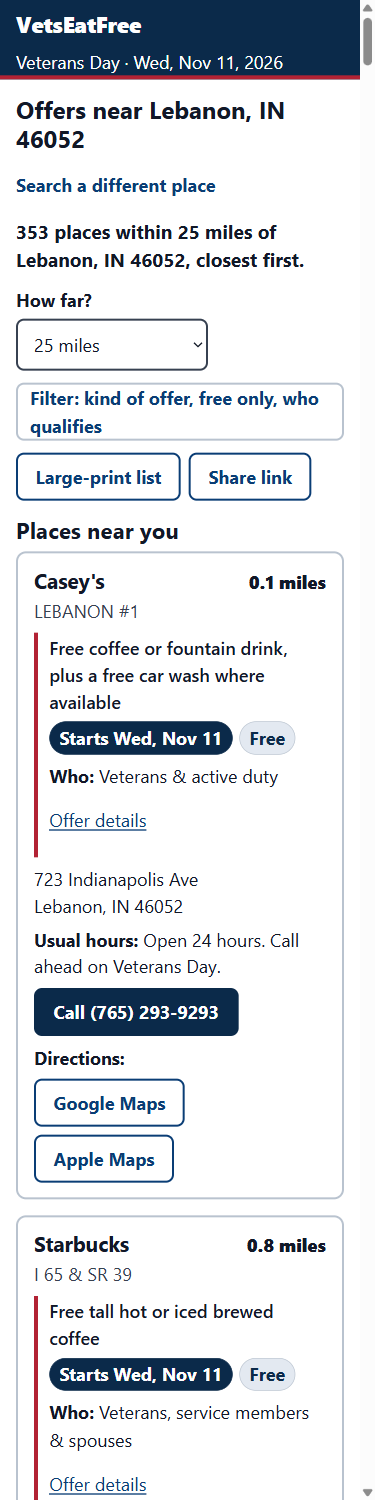
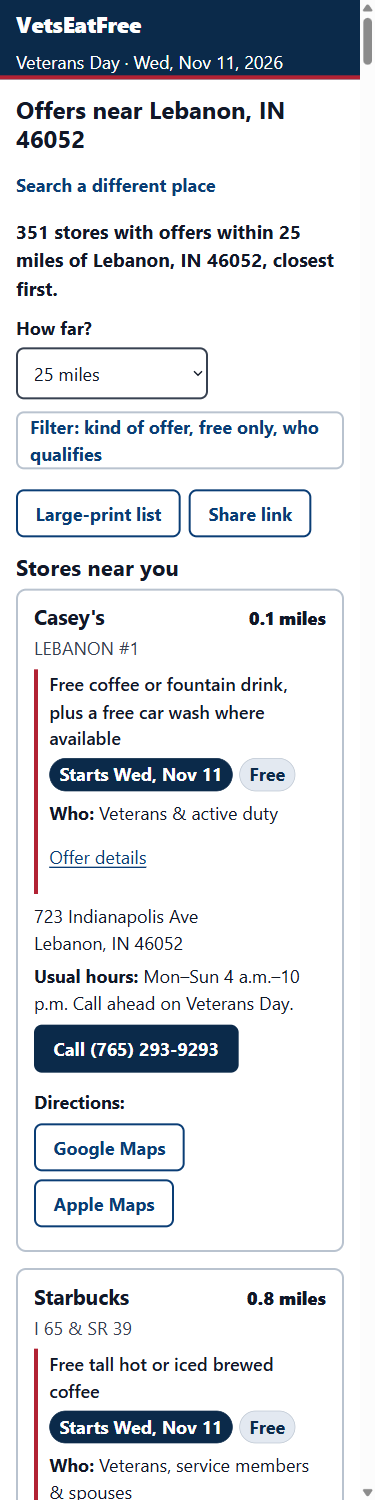
Evaluator round 5 fixes: store feature only (no pumps/pharmacy data), workplace and postal sites

diff --git a/pipeline/locations.py b/pipeline/locations.py
@@ -55,6 +55,10 @@ NOT_PUBLIC = re.compile(
 DEDUP_MI = 0.06            # ~100 m: same brand closer than this = one store
 
 
+def norm_street(a: str | None) -> str:
+    return re.sub(r"[^a-z0-9]", "", (a or "").lower())
+
+
 def miles(lat1, lng1, lat2, lng2) -> float:
     r = 3958.8
     p1, p2 = math.radians(lat1), math.radians(lat2)
@@ -146,7 +150,10 @@ STREET_NOT_PUBLIC = re.compile(
     # Veterans Day federal holiday (State Dept, USDA, Library of Congress...)
     r"(dept|department) of (state|justice|agriculture|defense|energy|labor|commerce|education|"
     r"transportation|the treasury|treasury|the interior|interior|homeland security|health|"
-    r"veterans affairs|housing)\b|,\s*usda\s*$|library of congress|(house|senate) office building",
+    r"veterans affairs|housing)\b|,\s*usda\s*$|library of congress|(house|senate) office building|"
+    # postal plants and other industrial sites
+    r"\busps\b|postal (service|facility)|sorting (facility|center)|processing (center|plant|facility)|"
+    r"distribution cent(er|re)",
     re.I,
 )
 
@@ -185,7 +192,46 @@ def near_test_point(f: dict, pts: list[tuple[float, float]]) -> bool:
     return any(miles(lat, lng, a, b) <= TEST_CLUSTER_MI for a, b in pts)
 
 
+CATEGORY_KEYS = ("shop", "amenity", "healthcare", "office")
+WEEK = ["Mo", "Tu", "We", "Th", "Fr", "Sa", "Su"]
+
+
+def open_days_and_last_close(hours: str) -> tuple[set, int | None]:
+    """Days a store opens and its latest closing minute, from an OSM-style
+    string like 'Mo-Th 07:30-15:15; Fr 07:30-13:15'. (set(), None) if unclear."""
+    days: set = set()
+    ends: list[int] = []
+    for part in (hours or "").split(";"):
+        part = part.strip()
+        if not part or re.search(r"off|closed", part):
+            continue
+        m = re.match(r"((?:Mo|Tu|We|Th|Fr|Sa|Su)(?:[-,](?:Mo|Tu|We|Th|Fr|Sa|Su))*)\s+(.*)$", part)
+        if not m:
+            return set(), None
+        for seg in m.group(1).split(","):
+            if "-" in seg:
+                a, b = seg.split("-")
+                i, j = WEEK.index(a), WEEK.index(b)
+                days.update(WEEK[i:j + 1] if i <= j else WEEK[i:] + WEEK[:j + 1])
+            else:
+                days.add(seg)
+        ends += [int(h) * 60 + int(mi) for h, mi in re.findall(r"-(\d{2}):(\d{2})", m.group(2))]
+    return days, (max(ends) if ends else None)
+
+
+def workplace_hours(p: dict) -> bool:
+    """Weekdays only and closed by 4 p.m. (or weekdays only with no public
+    phone): a cafe inside an office campus, state office or plant, not a store
+    a visitor walks into (Verizon HQ, Capital One campus, NJ state offices)."""
+    days, close = open_days_and_last_close(str(p.get("opening_hours") or ""))
+    if len(days) < 3 or {"Sa", "Su"} & days or close is None:
+        return False
+    return close <= 16 * 60 or not p.get("phone")
+
+
 def not_public(p: dict, live_requires: tuple = ()) -> bool:
+    if workplace_hours(p):
+        return True
     if p.get("office"):                       # office=company: a head office, not a store
         return True
     start = str(p.get("start_date") or "").strip()
@@ -252,6 +298,7 @@ class BrandStats:
     no_place: int = 0
     geocoded: int = 0
     not_public: int = 0
+    not_store: int = 0
     placeholder_phone: int = 0
     bad_coords: int = 0
     state_fixed: int = 0
@@ -288,6 +335,7 @@ def build(brands: dict, zips: dict[str, list], offline: bool, areas: dict[str, f
             feats = atp.load_features(atp.spider_file(sp, pick[0], offline))
             labs = test_points(feats, qids)
             live = tuple(b.get("live_listing_requires") or ())
+            cats = set(b.get("store_categories") or ())
             for f in feats:
                 st.features += 1
                 p = f.get("properties") or {}
@@ -296,6 +344,9 @@ def build(brands: dict, zips: dict[str, list], offline: bool, areas: dict[str, f
                     continue
                 if not_public(p, live) or near_test_point(f, labs):
                     st.not_public += 1
+                    continue
+                if cats and not any(f"{k}={p.get(k)}" in cats for k in CATEGORY_KEYS if p.get(k)):
+                    st.not_store += 1             # fuel pumps, pharmacy, liquor store...
                     continue
                 raw = re.sub(r"\D", "", str(p.get("phone") or "").split(";")[0])[-10:]
                 if len(raw) == 10 and is_placeholder_phone(raw):
@@ -441,9 +492,12 @@ def build(brands: dict, zips: dict[str, list], offline: bool, areas: dict[str, f
                 for other in grid.get((rec["b"], key[1] + di, key[2] + dj), ()):
                     if miles(rec["la"], rec["lo"], other["la"], other["lo"]) < DEDUP_MI:
                         dup = True
-                        for k in ("p", "h", "n", "z", "a"):
-                            if not other.get(k) and rec.get(k):
-                                other[k] = rec[k]
+                        # Fill gaps only from a copy of the same store (same
+                        # street), never from a neighbouring feature or store.
+                        if norm_street(other.get("a")) == norm_street(rec.get("a")):
+                            for k in ("p", "h", "n", "z"):
+                                if not other.get(k) and rec.get(k):
+                                    other[k] = rec[k]
                         break
                 if dup:
                     break

diff --git a/tests/test_pipeline.py b/tests/test_pipeline.py
@@ -320,3 +320,24 @@ def test_tcby_and_twin_peaks_have_full_addresses(records):
     for r in tcby:
         if r.get("c") == "Harrison" and r["s"] == "AR":
             assert miles(r["la"], r["lo"], 36.23, -93.11) < 15
+
+
+# ---- evaluator round 5 -------------------------------------------------------
+def test_workplace_hours_rule():
+    from pipeline.locations import workplace_hours as w
+    assert w({"opening_hours": "Tu-Th 07:30-14:45", "phone": "8042841566"})      # Capital One campus
+    assert w({"opening_hours": "Mo-Fr 07:30-14:45", "phone": "7326084423"})      # Verizon HQ
+    assert w({"opening_hours": "Mo-Fr 07:00-16:30"})                              # Sanofi, no phone
+    assert not w({"opening_hours": "Mo 11:00-22:00", "phone": "1"})               # source glitch, not weekday-only
+    assert not w({"opening_hours": "Mo-Fr 09:00-17:00", "phone": "1"})            # Walgreens pharmacy hours
+    assert not w({"opening_hours": "Mo-Su 05:00-21:00", "phone": "1"})
+
+
+def test_store_feature_not_pumps_or_pharmacy(records):
+    casey = [r for r in records if r["b"] == "caseys" and r.get("a") == "723 Indianapolis Ave"]
+    assert casey and casey[0]["h"] == "Mo-Su 04:00-22:00"          # the store, not the 24/7 pumps
+    names = {(r["b"], r.get("n") or "") for r in records}
+    assert not any(b == "publix" and "Moffitt" in n for b, n in names)
+    assert sum(1 for r in records if r["b"] == "hy-vee" and r.get("c") == "Lamoni") == 1
+    from pipeline.locations import not_public
+    assert not_public({"addr:street_address": "80 County Rd, USPS Sorting Facility"})

diff --git a/tools/make_brands.py b/tools/make_brands.py
@@ -177,6 +177,13 @@ def main() -> None:
     brands["texas-roadhouse"]["live_listing_note"] = (
         "Open restaurants all have opening_hours and website in the source; listings without them "
         "include 'Open 12/7' / 'Opens December 2026' restaurants and internal entries.")
+    # Some spiders list several features per site (store, fuel pumps,
+    # pharmacy, liquor store). Only the store itself carries the offer, and its
+    # own hours and phone must be shown. Pharmacy-only sites (incl. hospital
+    # pharmacies) don't sell groceries or breakfast, so they are left out.
+    brands["caseys"]["store_categories"] = ["shop=convenience"]
+    brands["publix"]["store_categories"] = ["shop=supermarket"]
+    brands["hy-vee"]["store_categories"] = ["shop=supermarket"]
     covered = {o for b in brands.values() for o in b["offers"]} | set(NO_STORE)
     need = {s for s, o in seed.items() if o["scope"] != "single_location"}
     assert need == covered, (need - covered, covered - need)

diff --git a/pipeline/reports.py b/pipeline/reports.py
@@ -52,6 +52,8 @@ def coverage(brands_doc: dict, stats: dict, choices: dict, records: list[dict], 
         f"wrong brand Q-id {sum(s.wrong_brand for s in stats.values())}, "
         f"marked by the source as test/lab, closed, coming soon or staff-only "
         f"{sum(s.not_public for s in stats.values())}, "
+        f"not the store itself (fuel pumps, pharmacy, liquor store of a multi-feature chain) "
+        f"{sum(s.not_store for s in stats.values())}, "
         f"outside the U.S. {sum(s.not_us for s in stats.values())}, "
         f"no coordinates and no usable address {sum(s.no_place for s in stats.values())}, "
         f"coordinates far from their ZIP or outside the U.S. {sum(s.bad_coords for s in stats.values())}, "

diff --git a/data/coverage.md b/data/coverage.md
@@ -9,25 +9,25 @@ Generated by `python -m pipeline.build` on 2026-11-07. Locations come only from 
 | 7 Brew | 7_brew_us (2026-10-24) | 561 | 462 | 400 |  |
 | Applebee's | applebees (2026-10-24) | 1456 | 1450 | 1500 |  |
 | Benihana | benihana (2026-10-24) | 84 | 80 | 75 |  |
-| Biggby Coffee | biggby_coffee_us (2026-10-24) | 499 | 496 | 300 |  |
+| Biggby Coffee | biggby_coffee_us (2026-10-24) | 499 | 495 | 300 |  |
 | BJ's Restaurant & Brewhouse | bj_restaurant_us (2026-10-24) | 219 | 218 | 215 |  |
 | Blaze Pizza | blaze_pizza (2026-10-24) | 227 | 219 | 300 |  |
 | Bob Evans | bob_evans_us (2026-10-24) | 408 | 408 | 430 |  |
 | Bonefish Grill | bonefish_grill (2026-10-24) | 156 | 156 | 170 |  |
 | BRAVO! Italian Kitchen | bravo_italian_us (2026-09-05) | 19 | 19 | 15 |  |
-| Bruegger's Bagels | brueggers (2026-10-24) | 155 | 155 | 200 |  |
+| Bruegger's Bagels | brueggers (2026-10-24) | 155 | 153 | 200 |  |
 | Buffalo Wild Wings | buffalo_wild_wings_us (2026-10-24) | 1440 | 1438 | 1200 |  |
 | California Pizza Kitchen | california_pizza_kitchen (2026-10-24) | 107 | 106 | 130 |  |
 | Carrabba's Italian Grill | carrabbas_italian_grill (2026-10-24) | 203 | 203 | 200 |  |
 | Casey's | caseys_general_store_us (2026-10-10) | 3750 | 1922 | 2900 |  |
-| Charleys Cheesesteaks | charleys_philly_steaks (2026-10-17) | 904 | 793 | 600 |  |
+| Charleys Cheesesteaks | charleys_philly_steaks (2026-10-17) | 904 | 788 | 600 |  |
 | Chili's | chilis (2026-10-24) | 1212 | 1204 | 1200 |  |
 | Chipotle | chipotle (2026-10-24) | 4316 | 4200 | 3600 |  |
 | Dave & Buster's | dave_and_busters (2026-10-24) | 187 | 184 | 230 |  |
 | Denny's | dennys_us (2026-10-24) | 1231 | 1230 | 1400 |  |
-| Dunkin' | dunkin_us (2026-10-24) | 10488 | 10389 | 9500 |  |
+| Dunkin' | dunkin_us (2026-10-24) | 10488 | 10347 | 9500 |  |
 | Eat'n Park | eatn_park_us (2026-10-10) | 55 | 55 | 50 |  |
-| Einstein Bros. Bagels | einstein_bros_us (2026-10-24) | 710 | 691 | 650 |  |
+| Einstein Bros. Bagels | einstein_bros_us (2026-10-24) | 710 | 648 | 650 |  |
 | Farmer Boys | farmer_boys (2026-10-24) | 107 | 107 | 100 |  |
 | Firehouse Subs | firehouse_subs (2026-10-24) | 1496 | 1272 | 1200 |  |
 | Fogo de Chão | fogo_de_chao (2026-10-24) | 61 | 44 | 60 |  |
@@ -38,7 +38,7 @@ Generated by `python -m pipeline.build` on 2026-11-07. Locations come only from 
 | Hard Rock Cafe | hard_rock (2026-10-24) | 237 | 30 | 30 |  |
 | Hooters | hooters (2026-10-24) | 215 | 149 | 250 |  |
 | Hopdoddy Burger Bar | hopdoddy_burger_bar_us (2026-10-24) | 50 | 50 | 40 |  |
-| Hy-Vee | hy_vee_us (2026-10-24) | 296 | 272 | 290 |  |
+| Hy-Vee | hy_vee_us (2026-10-24) | 296 | 250 | 290 |  |
 | IHOP | ihop (2026-10-24) | 1689 | 1682 | 1600 |  |
 | In-N-Out Burger | innout (2026-10-24) | 445 | 444 | 400 |  |
 | Joe's Crab Shack | joes_crab_shack_us (2026-10-24) | 13 | 13 | 15 |  |
@@ -54,8 +54,8 @@ Generated by `python -m pipeline.build` on 2026-11-07. Locations come only from 
 | Outback Steakhouse | outback_steakhouse (2026-10-24) | 647 | 647 | 690 |  |
 | Piada Italian Street Food | piada_us (2026-10-24) | 63 | 63 | 50 |  |
 | Pilot & Flying J | pilot_flying_j (2026-10-10) | 720 | 602 | 750 |  |
-| Playa Bowls | playa_bowls_us (2026-10-24) | 439 | 436 | 280 |  |
-| Publix | publix_us (2026-10-24) | 3252 | 1455 | 1400 |  |
+| Playa Bowls | playa_bowls_us (2026-10-24) | 439 | 435 | 280 |  |
+| Publix | publix_us (2026-10-24) | 3252 | 1451 | 1400 |  |
 | Red Lobster | red_lobster_us (2026-10-17) | 509 | 482 | 550 |  |
 | Red Robin | red_robin (2026-10-17) | 458 | 446 | 500 |  |
 | Rubio's Coastal Grill | rubios_us (2026-10-24) | 78 | 78 | 80 |  |
@@ -64,9 +64,9 @@ Generated by `python -m pipeline.build` on 2026-11-07. Locations come only from 
 | Sheetz | sheetz (2026-10-24) | 867 | 865 | 750 |  |
 | Shoney's | shoneys_us (2026-10-24) | 53 | 52 | 100 |  |
 | Sizzler | sizzler_us (2026-10-24) | 71 | 71 | 70 |  |
-| Smashburger | smashburger (2026-10-24) | 162 | 157 | 200 |  |
+| Smashburger | smashburger (2026-10-24) | 162 | 156 | 200 |  |
 | Sport Clips | sport_clips_us (2026-10-24) | 1762 | 1760 | 1800 |  |
-| Starbucks | starbucks_us (2026-10-24) | 13804 | 13617 | 16000 |  |
+| Starbucks | starbucks_us (2026-10-24) | 13804 | 13553 | 16000 |  |
 | TCBY | tcby (2026-10-24) | 129 | 115 | 200 |  |
 | Texas Roadhouse | texas_roadhouse (2026-10-24) | 857 | 702 | 650 |  |
 | TGI Fridays | tgi_fridays_us (2026-10-24) | 68 | 62 | 90 |  |
@@ -74,14 +74,14 @@ Generated by `python -m pipeline.build` on 2026-11-07. Locations come only from 
 | Tractor Supply | tractor_supply (2026-10-17) | 2479 | 2478 | 2250 |  |
 | Twin Peaks | twin_peaks (2026-10-24) | 117 | 110 | 110 |  |
 | WaBa Grill | waba_grill_us (2026-10-24) | 194 | 194 | 200 |  |
-| Walgreens | walgreens (2026-10-10) | 7986 | 7686 | 8000 |  |
+| Walgreens | walgreens (2026-10-10) | 7986 | 7685 | 8000 |  |
 | Wendy's | wendys (2026-10-10) | 16172 | 5860 | 6000 |  |
 | White Castle | white_castle (2026-10-24) | 336 | 336 | 340 |  |
 | Yard House | yard_house (2026-10-17) | 101 | 97 | 90 |  |
 
-Dropped along the way (all brands): wrong brand Q-id 449, marked by the source as test/lab, closed, coming soon or staff-only 295, outside the U.S. 1626, no coordinates and no usable address 135, coordinates far from their ZIP or outside the U.S. 102, duplicates 13693. Placed with the U.S. Census Geocoder: 772. Placeholder phone numbers removed (store kept, no phone shown): 39. State corrected to the ZIP's state: 162. ZIP hidden because it contradicts the store's own town: 61. Map point disagreed with the address and was replaced by the Census Geocoder's match: 8.
+Dropped along the way (all brands): wrong brand Q-id 449, marked by the source as test/lab, closed, coming soon or staff-only 462, not the store itself (fuel pumps, pharmacy, liquor store of a multi-feature chain) 3642, outside the U.S. 1626, no coordinates and no usable address 133, coordinates far from their ZIP or outside the U.S. 100, duplicates 10074. Placed with the U.S. Census Geocoder: 750. Placeholder phone numbers removed (store kept, no phone shown): 39. State corrected to the ZIP's state: 159. ZIP hidden because it contradicts the store's own town: 61. Map point disagreed with the address and was replaced by the Census Geocoder's match: 8.
 
-Total store locations: **80955**. Single places: **14**.
+Total store locations: **80769**. Single places: **14**.
 
 ## Offers with at least one location
 
@@ -93,16 +93,16 @@ Total store locations: **80955**. Single places: **14**.
 
 | ZIP | Place | Why | Locations within 25 mi | within 100 mi | Single places within 150 mi |
 |---|---|---|---:|---:|---:|
-| 46052 | Lebanon, IN | home pilot | 352 | 1330 | 0 |
-| 10001 | New York, NY | dense | 2810 | 6523 | 2 |
-| 78205 | San Antonio, TX | big military city | 482 | 1187 | 1 |
-| 20001 | Washington, DC | DC | 1191 | 3771 | 5 |
+| 46052 | Lebanon, IN | home pilot | 351 | 1327 | 0 |
+| 10001 | New York, NY | dense | 2803 | 6507 | 2 |
+| 78205 | San Antonio, TX | big military city | 480 | 1184 | 1 |
+| 20001 | Washington, DC | DC | 1185 | 3760 | 5 |
 | 59301 | Miles City, MT | rural, must auto-widen | 2 | 5 | 0 |
 | 87301 | Gallup, NM | rural | 11 | 40 | 0 |
 | 04401 | Bangor, ME | Northeast regional offers | 51 | 223 | 0 |
-| 82001 | Cheyenne, WY | small state | 37 | 931 | 0 |
+| 82001 | Cheyenne, WY | small state | 37 | 930 | 0 |
 | 99701 | Fairbanks, AK | Alaska | 12 | 12 | 0 |
-| 96813 | Honolulu, HI | Hawaii | 150 | 171 | 0 |
+| 96813 | Honolulu, HI | Hawaii | 149 | 170 | 0 |
 | 00901 | San Juan, PR | territory | 108 | 161 | 0 |
 | 96910 | Hagåtña, GU | territory with little data | 3 | 3 | 0 |
 | 00802 | St. Thomas, VI | territory with little data | 2 | 124 | 0 |

diff --git a/PROGRESS.md b/PROGRESS.md
@@ -352,3 +352,29 @@ Decisions:
   temp-closed / test-restaurant (Charleys x2, In-N-Out Camarillo, Main Event
   Brea, Firehouse "test-restaurant-789").
 - pytest 68 passed; e2e 120 passed. 80,955 stores.
+
+## Evaluator round 5: NEEDS_WORK (2 blocking) -> work items
+- W12: de-duplication kept whichever same-brand feature sorted first, so
+  cards showed the fuel pumps' hours (Casey's "Open 24 hours") or the
+  pharmacy's phone (Publix). Pick the store feature itself; never fill a
+  store's phone/hours from a neighbouring feature.
+- W13: places where the offer can't be used: pharmacy-only Hy-Vee/Publix
+  sites (incl. hospital pharmacies) shown with grocery/breakfast offers;
+  staff-only workplace sites (USPS sorting facility, Capital One and Verizon
+  campuses, state office buildings, Sanofi campus).
+
+## Evaluator round 5 fixes (W12, W13)
+- W12: brands.json "store_categories" for the only three multi-feature
+  chains (Casey's shop=convenience; Publix and Hy-Vee shop=supermarket):
+  fuel pumps, pharmacies, liquor stores and pharmacy-only sites (incl.
+  hospital pharmacies) are left out, so each card shows the store's own hours
+  and phone (Casey's Lebanon #1: 4 a.m.-10 p.m.; Publix Islamorada: the
+  store's number). De-duplication now fills a missing phone/hours only from a
+  copy of the same street address, never from a neighbouring store/feature.
+- W13: staff-only workplace cafes: weekdays-only and closed by 4 p.m. (or
+  weekdays-only with no phone) are dropped (Verizon HQ, Capital One campus,
+  NJ state offices, Sanofi campus...); Olive Garden's Monday-only source
+  hours don't trigger it (needs >= 3 weekdays); Walgreens pharmacy 9-5 hours
+  don't (cutoff 4 p.m.). USPS / sorting / processing / distribution-center
+  addresses dropped.
+- pytest 70 passed; e2e 120 passed. 80,769 stores. Re-took evidence/F02.png.
